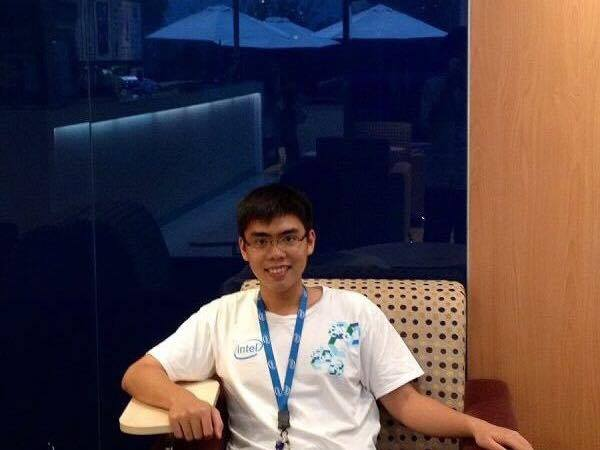
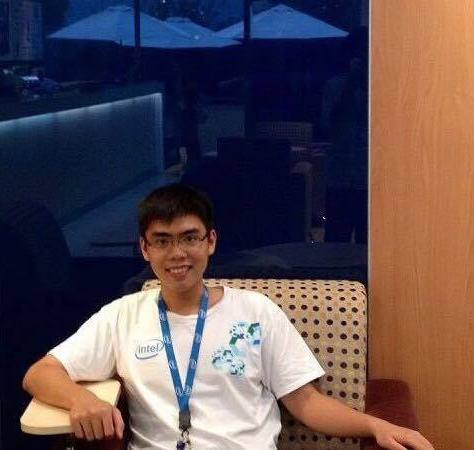
pro pics

diff --git a/baxter/css/style.css b/baxter/css/style.css
@@ -46,7 +46,7 @@ video {
 /*about span*/
 #about_title {
     position:absolute;
-    top: 110vh;
+    top: 100vh;
     color: black;
     font-size: 20px;
     padding-top: 20px;
@@ -57,4 +57,4 @@ video {
     z-index: 100;
 }
 table { table-layout: fixed; }
-img.profile { height: 160px; }
+img.profile { width: 60%; }
